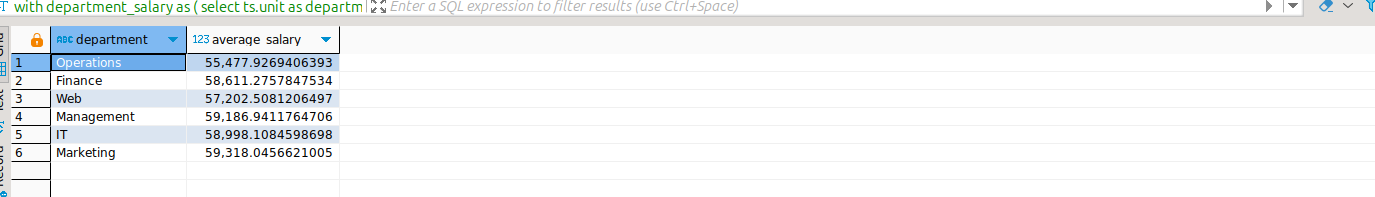
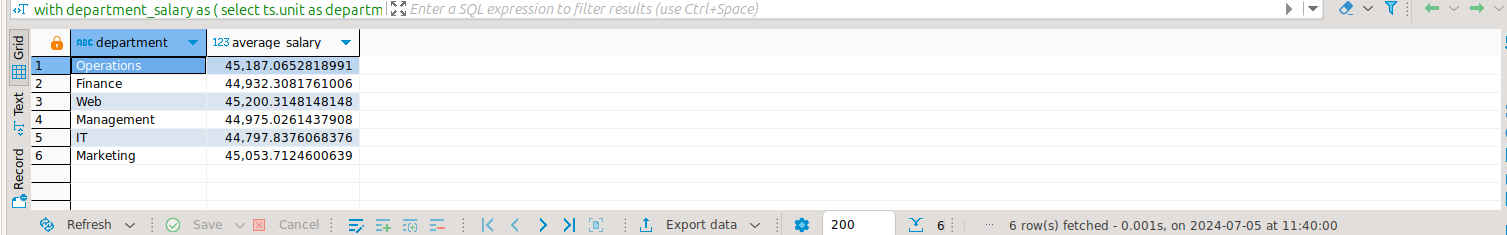
debug

Changed region(s): [[0.0, 0.1218, 1.0, 1.0], [0.0, 0.0, 0.5498, 0.0914], [0.8553, 0.0, 1.0, 0.0914]]

diff --git a/README.md b/README.md
@@ -12,6 +12,8 @@ with
 			ts.salary as salary
 		from
 			table_salary ts
+		where
+			ts.designation='Analyst'
 	)
 select
 	ds.department,
@@ -170,7 +172,7 @@ call calculate_leaves_across_department_view();
 select * from leaves_across_department_view ;
 ```
 
-###### Alternatively, Using table
+##### Alternatively, Using table
 
 ###### Creating Procedure:
 ```
